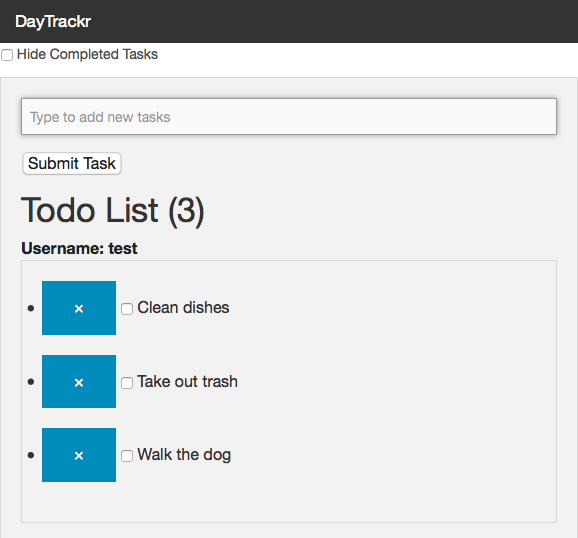
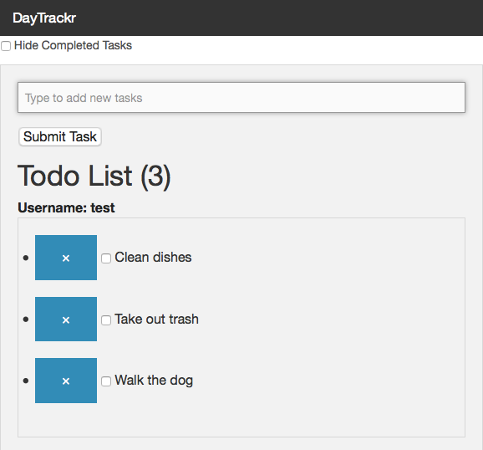
modded images to fit better for portfolio, update policonnect image

diff --git a/index0.html b/index0.html
@@ -211,7 +211,7 @@
 				</li>
 
 				<li class="policonnect project th">
-					<a class="" href="http://www.policonnect.org"> <img src="images/policonnect_1.png"/></a>
+					<a class="" href="http://www.policonnect.org"> <img src="images/policonnect.png"/></a>
 					<p class="text-center panel">A group project to connect policymakers to experts in order to inform policymakers when making decisions.</p>
 				</li>
 

diff --git a/index.php b/index.php
@@ -211,7 +211,7 @@
 				</li>
 
 				<li class="policonnect project th">
-					<a class="" href="http://www.policonnect.org"> <img src="images/policonnect_1.png"/></a>
+					<a class="" href="http://www.policonnect.org"> <img src="images/policonnect.png"/></a>
 					<p class="text-center panel">A group project to connect policymakers to experts in order to inform policymakers when making decisions.</p>
 				</li>
 
